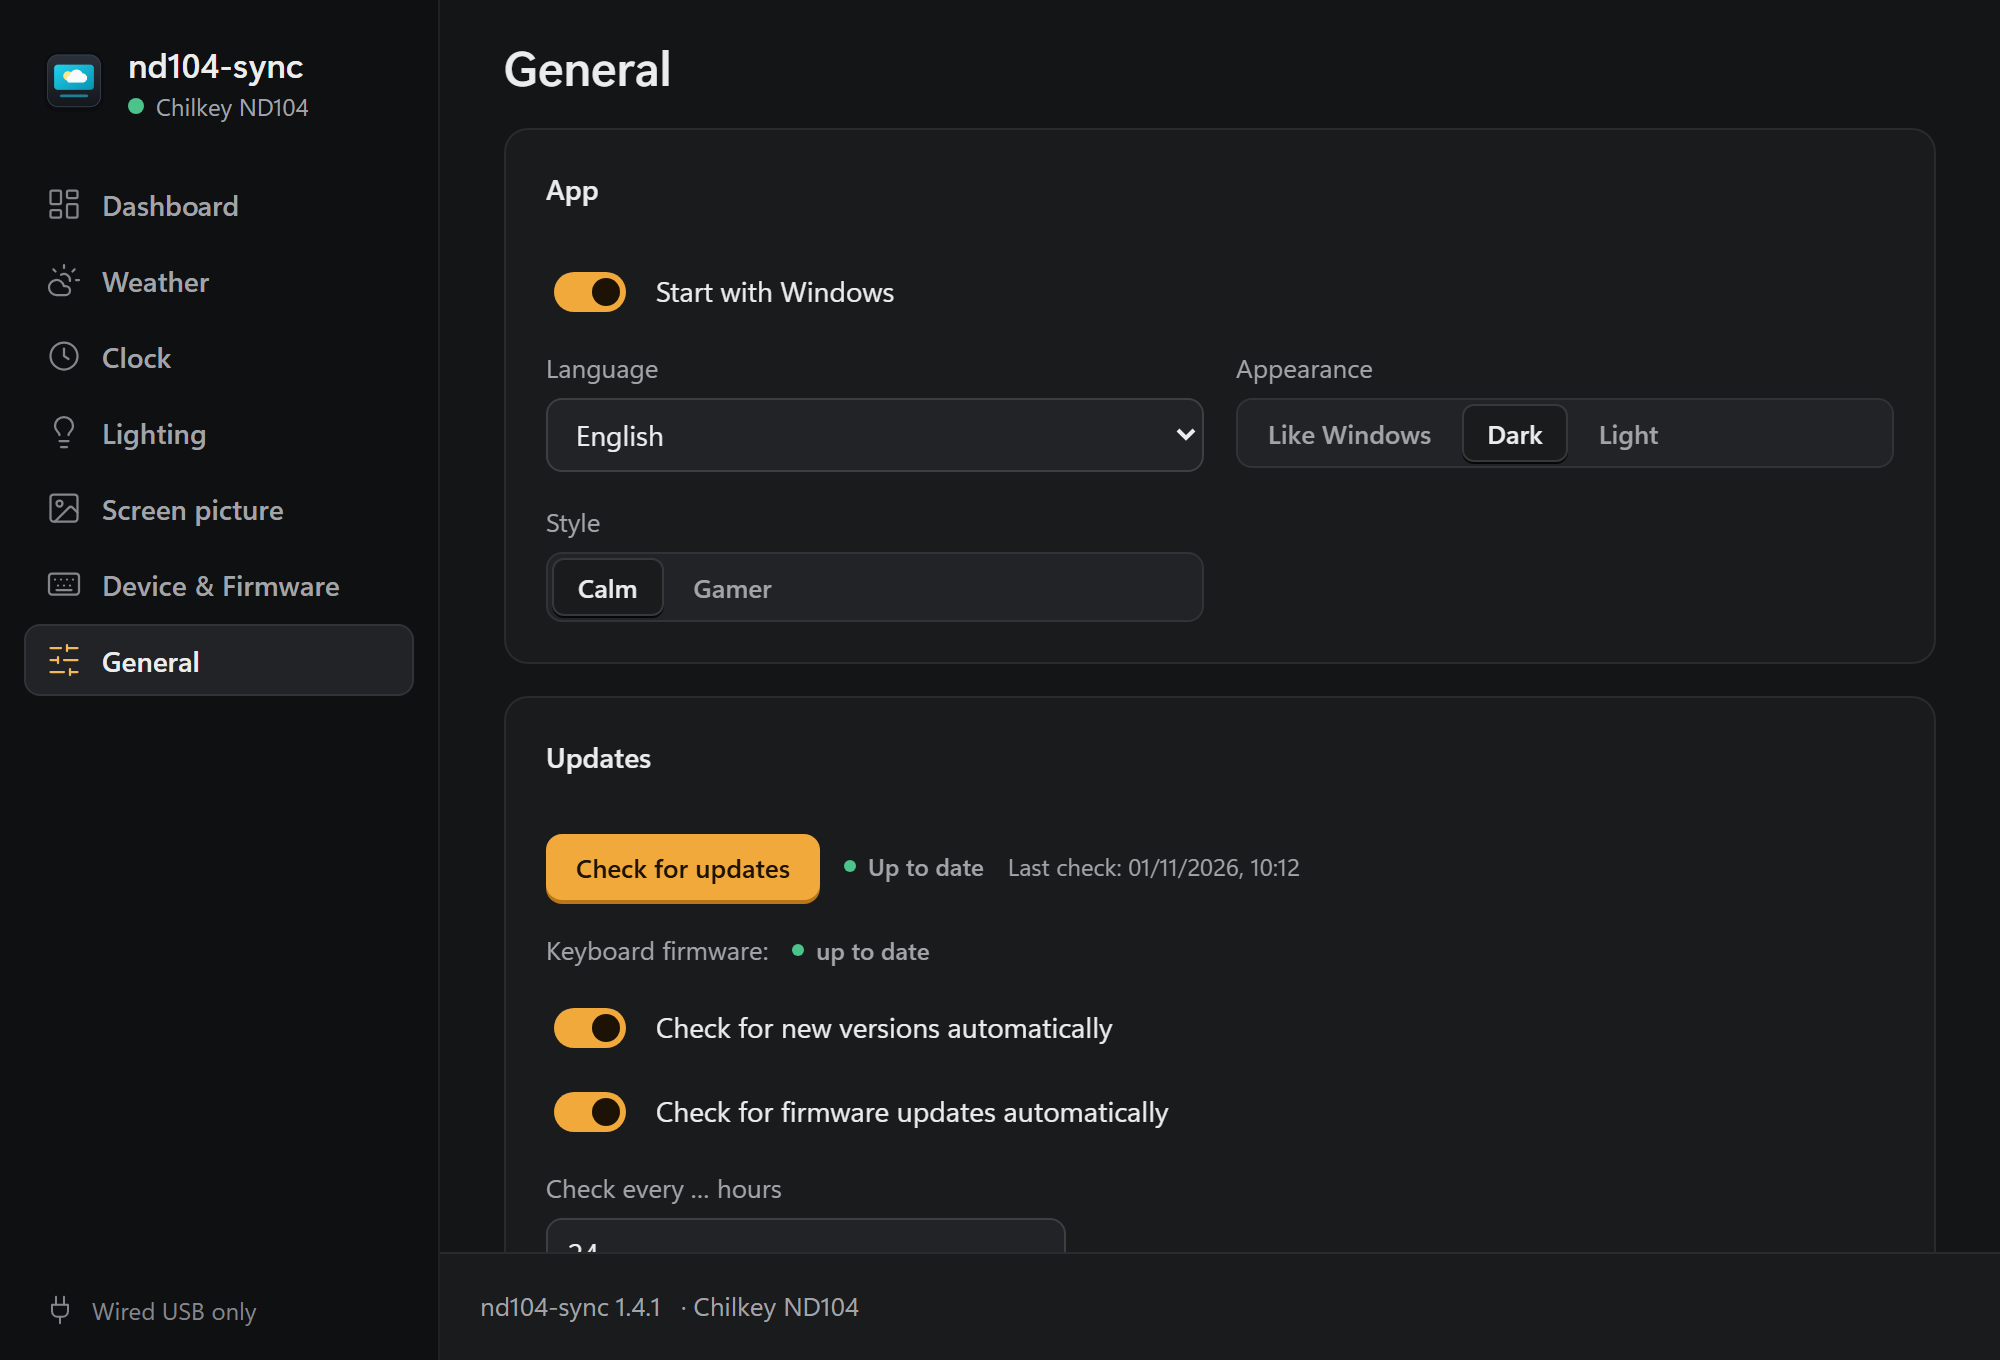
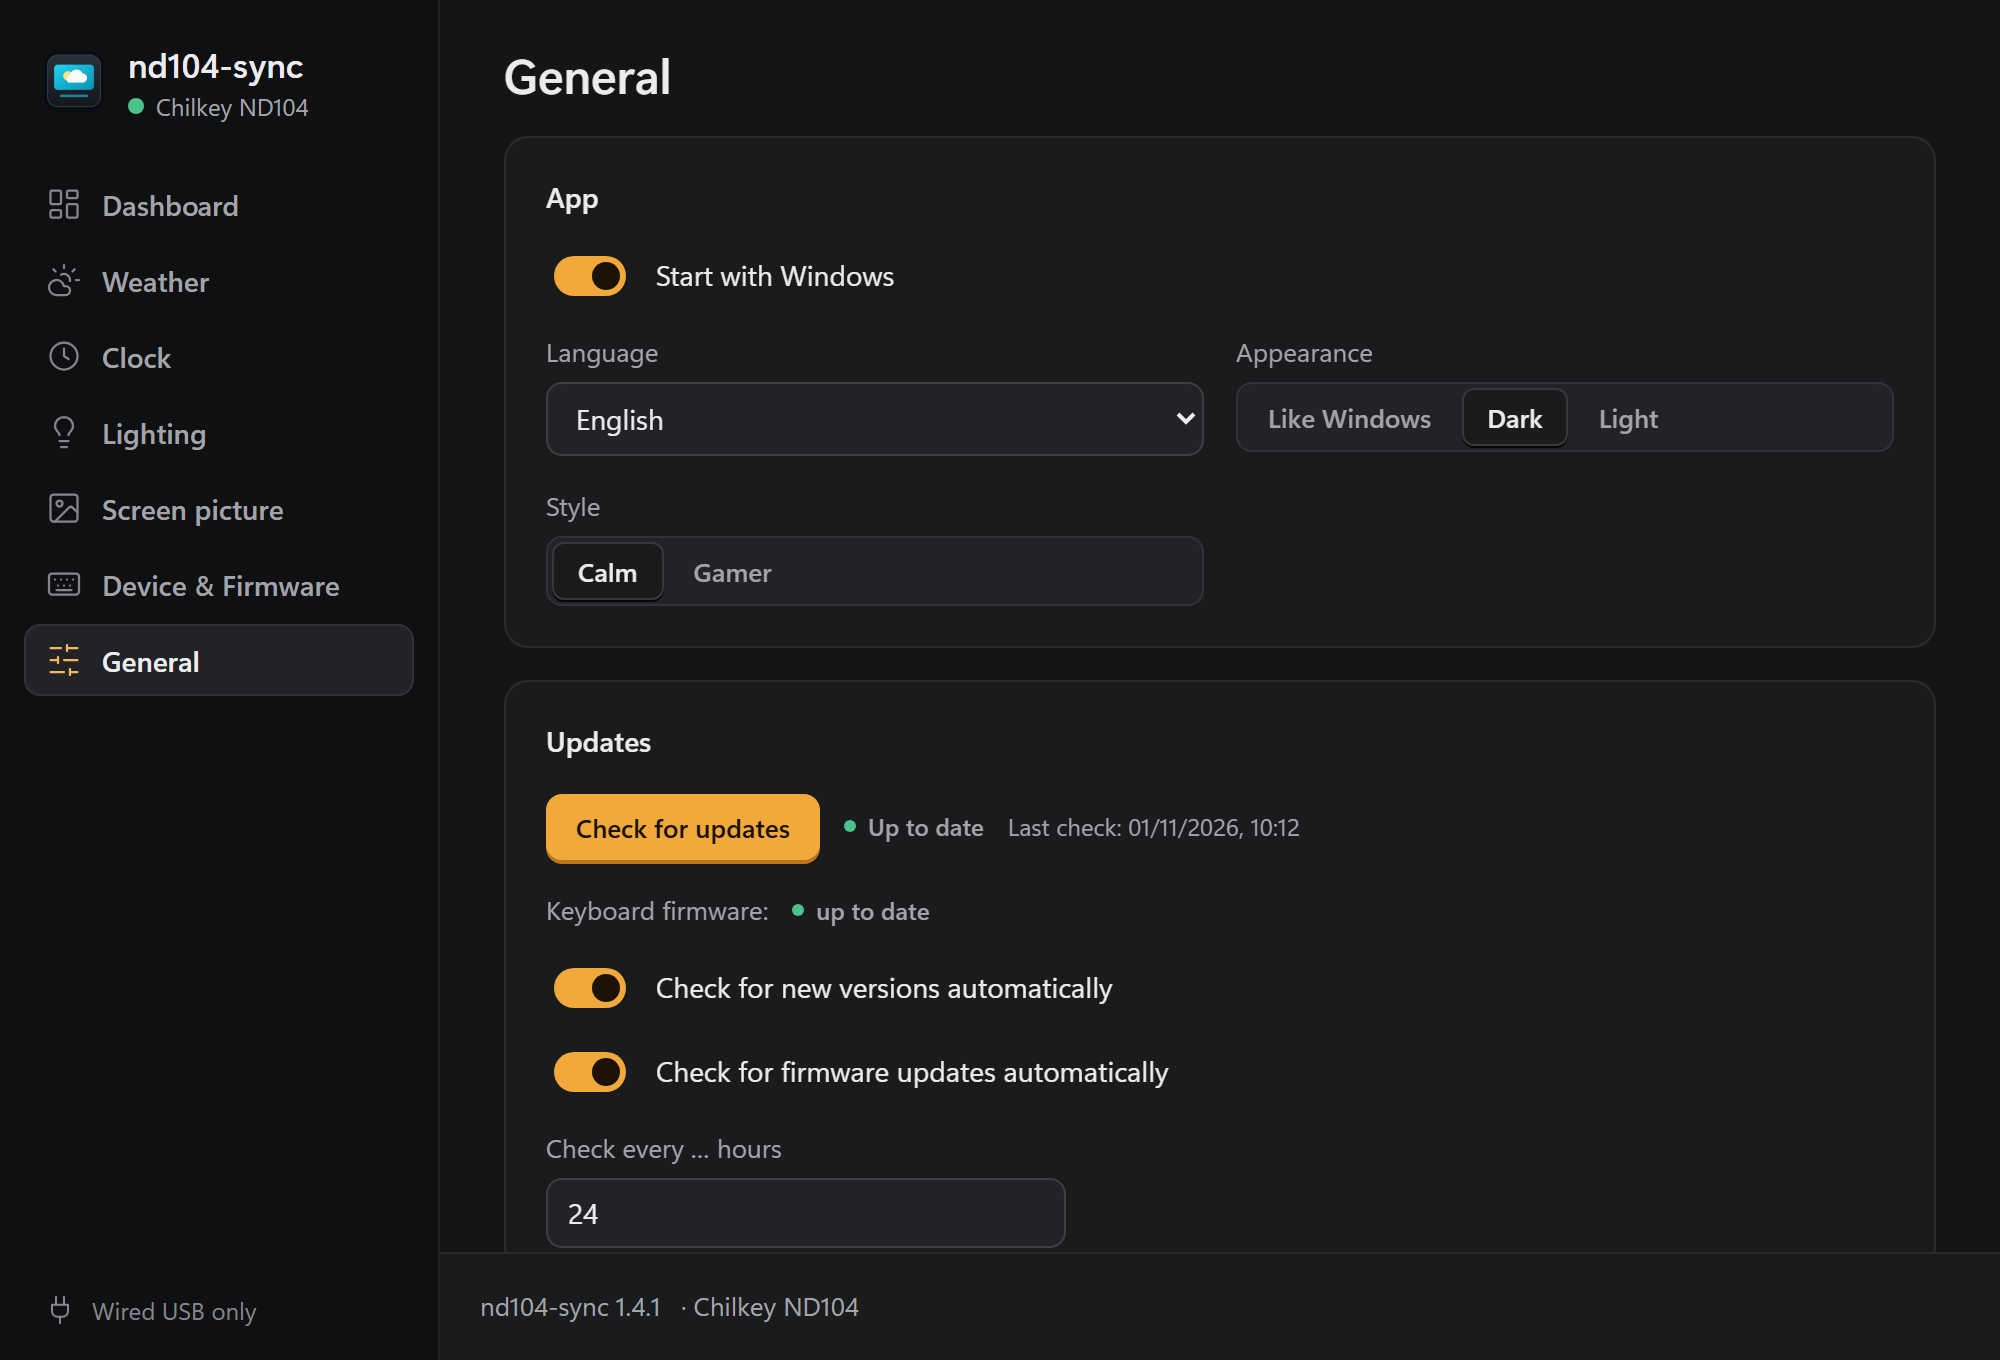
README and screenshots: lighting and screen picture pages
- screenshots.mjs renders lighting.png (solid colour + rainbow effect)
  and picture.png (sample animated GIF with checks and preview); the demo
  draws the sample GIF itself and reports lighting values per zone.
- READMEs: lighting, own picture/GIF, own setup with one-click updates,
  two styles; gallery row for the new pages; screenshot list updated.
- Stacked cards: no extra gap under the heading.

diff --git a/apps/nd104-sync/ui/src/demo/demo.ts b/apps/nd104-sync/ui/src/demo/demo.ts
@@ -199,6 +199,79 @@ const TIMEZONES = [
   "UTC",
 ];
 
+/** A short animated sunset loop drawn on a canvas, as if picked from disk. */
+function demoPicture() {
+  const W = 320;
+  const H = 172;
+  const FRAMES = 12;
+  const canvas = document.createElement("canvas");
+  canvas.width = W;
+  canvas.height = H;
+  const g = canvas.getContext("2d")!;
+  const frames: string[] = [];
+  for (let f = 0; f < FRAMES; f++) {
+    const sky = g.createLinearGradient(0, 0, 0, H * 0.62);
+    sky.addColorStop(0, "#1b1435");
+    sky.addColorStop(0.6, "#7a2e6b");
+    sky.addColorStop(1, "#f08a4b");
+    g.fillStyle = sky;
+    g.fillRect(0, 0, W, H);
+    // sun with bands that slide down
+    const cx = W / 2;
+    const cy = H * 0.62;
+    const sun = g.createLinearGradient(0, cy - 52, 0, cy);
+    sun.addColorStop(0, "#ffd36b");
+    sun.addColorStop(1, "#ff6f61");
+    g.save();
+    g.beginPath();
+    g.arc(cx, cy, 52, Math.PI, 0);
+    g.clip();
+    g.fillStyle = sun;
+    g.fillRect(cx - 52, cy - 52, 104, 52);
+    g.fillStyle = "#7a2e6b";
+    for (let i = 0; i < 6; i++) {
+      const y = cy - 30 + ((i * 9 + f * 0.75) % 30);
+      g.fillRect(cx - 52, y, 104, 1 + i * 0.5);
+    }
+    g.restore();
+    // ground with a moving grid
+    g.fillStyle = "#120d24";
+    g.fillRect(0, cy, W, H - cy);
+    g.strokeStyle = "rgba(255, 140, 120, 0.55)";
+    g.lineWidth = 1;
+    for (let i = 0; i < 8; i++) {
+      const t = (i + f / FRAMES) / 8;
+      const y = cy + (H - cy) * t * t;
+      g.beginPath();
+      g.moveTo(0, y);
+      g.lineTo(W, y);
+      g.stroke();
+    }
+    for (let x = -10; x <= 10; x++) {
+      g.beginPath();
+      g.moveTo(cx + x * 6, cy);
+      g.lineTo(cx + x * 40, H);
+      g.stroke();
+    }
+    frames.push(canvas.toDataURL("image/jpeg", 0.85));
+  }
+  const jpegBytes = frames.reduce((sum, url) => sum + Math.round(((url.length - 23) * 3) / 4), 0);
+  return {
+    name: "sunset-loop.gif",
+    file_bytes: 486_312,
+    spec: { width: 320, height: 172, max_frames: 59, max_bytes: 2_097_152, max_file_bytes: 2_097_152 },
+    problem: null,
+    format: "GIF",
+    width: 480,
+    height: 258,
+    frames: FRAMES,
+    payload_bytes: 8 + FRAMES * 5 + jpegBytes,
+    notes: [{ code: "scaled", width: 480, height: 258 }],
+    preview_frames: frames,
+    delays_ms: Array(FRAMES).fill(90),
+  };
+}
+
 export function installDemo(version: string) {
   const texts: Record<string, string> = { ...en, ...(language === "de" ? de : {}) };
 
@@ -231,7 +304,15 @@ export function installDemo(version: string) {
       case "timezones":
         return TIMEZONES;
       case "light_read":
-        return { effect: 1, brightness: 255, speed: 128, hue: 128, sat: 220 };
+        // key lighting: solid amber; bottom lighting: a rainbow effect
+        return a.zone === "bottom"
+          ? { effect: 9, brightness: 170, speed: 190, hue: 170, sat: 255 }
+          : { effect: 1, brightness: 210, speed: 128, hue: 24, sat: 210 };
+      case "picture_pick":
+      case "picture_refit":
+        return demoPicture();
+      case "picture_upload":
+        return null;
       case "plugin:event|listen":
         return 1;
       default:

diff --git a/apps/nd104-sync/ui/src/app.css b/apps/nd104-sync/ui/src/app.css
@@ -285,6 +285,11 @@ button.link:hover {
   margin-bottom: 12px;
 }
 
+/* in stacked cards the stack gap already spaces the heading */
+.card.stack > h2 {
+  margin-bottom: 0;
+}
+
 /* Keycap buttons – the signature: a solid keycap with a bottom edge that
    goes down when pressed */
 .key {

diff --git a/apps/nd104-sync/README.md b/apps/nd104-sync/README.md
@@ -13,8 +13,9 @@
 ![Vite](https://img.shields.io/badge/Vite-646CFF?logo=vite&logoColor=white)
 
 Keeps the display of the **Chilkey ND104** keyboard up to date with the
-**current time and weather**. A small tray app with a settings and status
-window: set it up once, then forget it.
+**current time and weather**, and lets you set the **keyboard lighting** and
+show **your own picture or GIF** on the screen. A small tray app with a
+settings and status window: set it up once, then forget it.
 
 <p align="center">
   <img src="../../docs/images/nd104-sync/dashboard.png" width="760" alt="nd104-sync settings window, dashboard page with live preview of the keyboard display">
@@ -26,8 +27,12 @@ window: set it up once, then forget it.
     <td align="center"><img src="../../docs/images/nd104-sync/clock.png" width="370" alt="Clock page"><br><sub>Clock: source, time zone, summer/winter time</sub></td>
   </tr>
   <tr>
+    <td align="center"><img src="../../docs/images/nd104-sync/lighting.png" width="370" alt="Lighting page"><br><sub>Lighting: on/off, effect, brightness, speed, colour</sub></td>
+    <td align="center"><img src="../../docs/images/nd104-sync/picture.png" width="370" alt="Screen picture page"><br><sub>Screen picture: checks, animated preview, send</sub></td>
+  </tr>
+  <tr>
     <td align="center"><img src="../../docs/images/nd104-sync/device.png" width="370" alt="Device and Firmware page"><br><sub>Device & Firmware: safety state, update check</sub></td>
-    <td align="center"><img src="../../docs/images/nd104-sync/general.png" width="370" alt="General page"><br><sub>General: autostart, language, theme, updates</sub></td>
+    <td align="center"><img src="../../docs/images/nd104-sync/general.png" width="370" alt="General page"><br><sub>General: autostart, language, theme, style, updates</sub></td>
   </tr>
 </table>
 

diff --git a/README.md b/README.md
@@ -34,13 +34,18 @@ location, keep the clock in sync and know when new firmware is out.
       <h3><a href="apps/nd104-sync/README.md">nd104-sync</a></h3>
       <p>
         Small tray app that keeps the keyboard display up to date with the
-        <b>current time and weather</b>. Set it up once, then forget it.
+        <b>current time and weather</b>, controls the <b>lighting</b> and
+        shows <b>your own picture or GIF</b> on the screen. Set it up once,
+        then forget it.
       </p>
       <ul>
         <li>Time sync with time zones, NTP and summer/winter time</li>
         <li>Weather from 5 providers, 2 of them without API key</li>
+        <li>Lighting: on/off, effects, brightness, speed, colour</li>
+        <li>Own picture or animated GIF on the screen, checked and scaled first</li>
         <li>Firmware safety lock and firmware update notification</li>
-        <li>Settings window with live display preview, English/German, dark/light</li>
+        <li>Own setup with one-click updates from the app</li>
+        <li>Settings window with live display preview, English/German, two styles in dark/light</li>
       </ul>
       <p>
         <img src="https://img.shields.io/github/v/release/MrUrdam/chilkey_nd104_utilities?filter=nd104-sync-v*&label=version&color=0969da" alt="version">

diff --git a/docs/images/nd104-sync/README.md b/docs/images/nd104-sync/README.md
@@ -6,7 +6,7 @@ Used by the [main README](../../../README.md) and the
 **Generated, do not edit by hand.** The workflow
 [`nd104-sync-screenshots.yml`](../../../.github/workflows/nd104-sync-screenshots.yml)
 renders them from the demo build of the settings window (sample data, no
-keyboard) and commits them whenever the UI changes. It can also be started by
+keyboard; the sample GIF is drawn by the demo itself) and commits them whenever the UI changes. It can also be started by
 hand under *Actions*.
 
 | File | Page |
@@ -14,6 +14,8 @@ hand under *Actions*.
 | `dashboard.png` | Dashboard with the live display preview (hero image) |
 | `weather.png` | Weather (location and provider) |
 | `clock.png` | Clock |
+| `lighting.png` | Lighting: background lighting in solid colour, bottom lighting with a rainbow effect |
+| `picture.png` | Screen picture: a sample animated GIF with its checks and preview |
 | `device.png` | Device & Firmware, verified state |
 | `general.png` | General |
 
